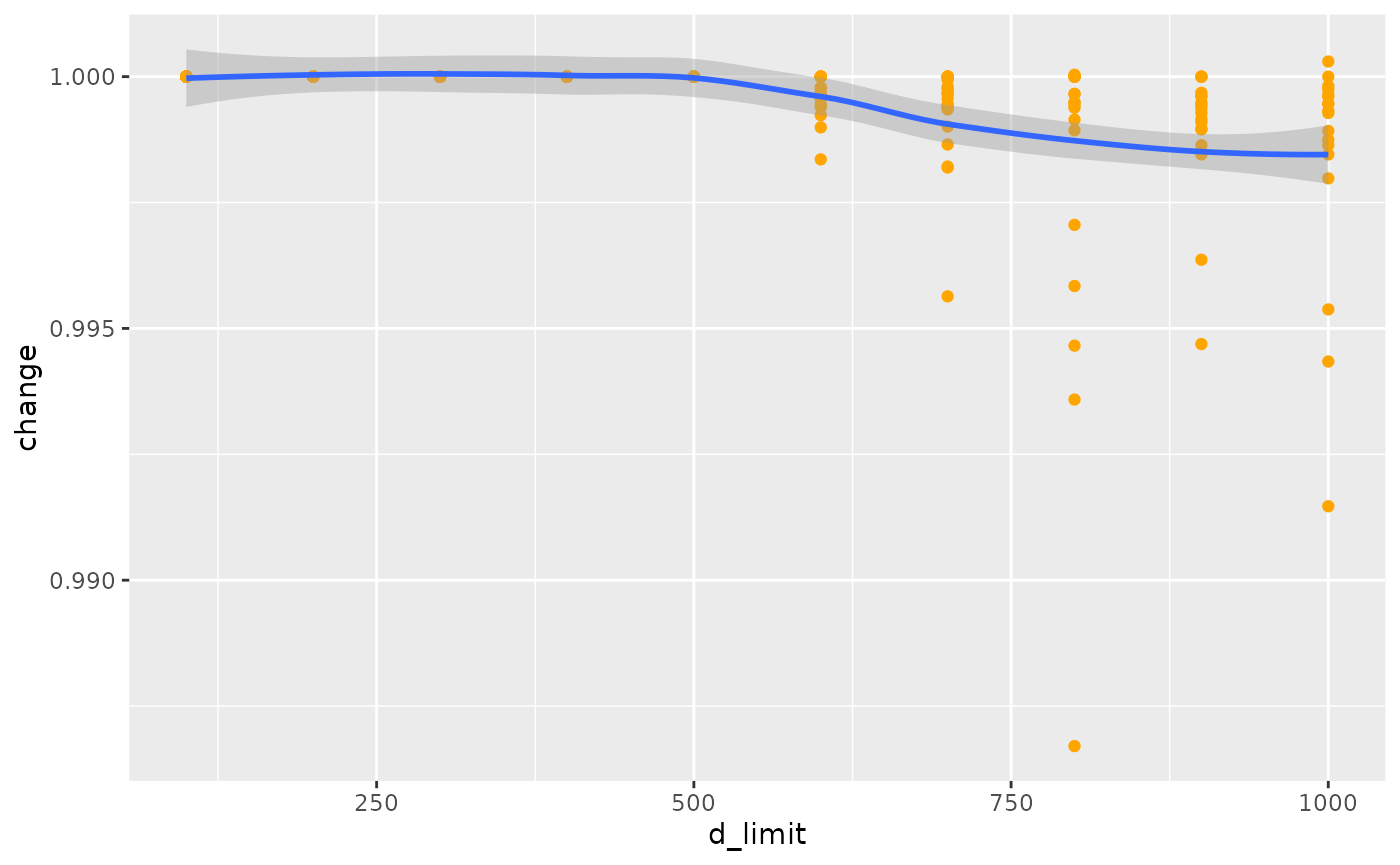
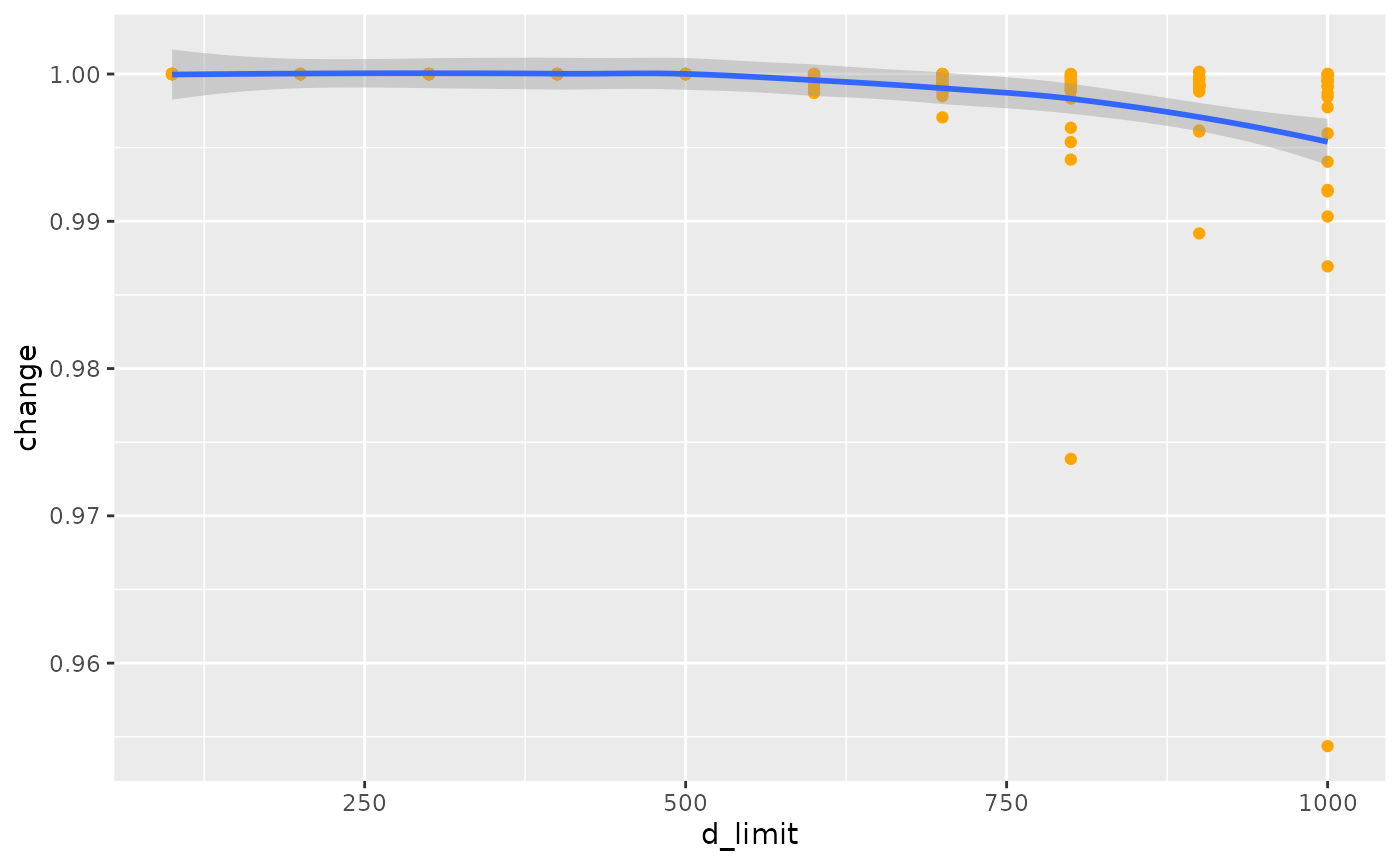
Deploying to gh-pages from @ ATFutures/gtfs-router@e3e9c0e0ea4a50630c8457e9ec67bfee1ce0405a 🚀

diff --git a/docs/index.html b/docs/index.html
@@ -35,7 +35,7 @@
       </button>
       <span class="navbar-brand">
         <a class="navbar-link" href="index.html">gtfsrouter</a>
-        <span class="version label label-default" data-toggle="tooltip" data-placement="bottom" title="">0.0.5.124</span>
+        <span class="version label label-default" data-toggle="tooltip" data-placement="bottom" title="">0.0.5.127</span>
       </span>
     </div>
 
@@ -331,6 +331,9 @@
 <a href="https://github.com/stmarcin" class="external-link"> <img src="https://avatars.githubusercontent.com/u/11378350?v=4" width="100px;" alt=""></a><br><a href="https://github.com/ATFutures/gtfs-router/commits?author=stmarcin" class="external-link">stmarcin</a>
 </td>
 <td align="center">
+<a href="https://github.com/dhersz" class="external-link"> <img src="https://avatars.githubusercontent.com/u/1557047?v=4" width="100px;" alt=""></a><br><a href="https://github.com/ATFutures/gtfs-router/commits?author=dhersz" class="external-link">dhersz</a>
+</td>
+<td align="center">
 <a href="https://github.com/polettif" class="external-link"> <img src="https://avatars.githubusercontent.com/u/17431069?v=4" width="100px;" alt=""></a><br><a href="https://github.com/ATFutures/gtfs-router/commits?author=polettif" class="external-link">polettif</a>
 </td>
 </tr></table>
@@ -344,7 +347,7 @@
 <a href="https://github.com/sridharraman" class="external-link"> <img src="https://avatars.githubusercontent.com/u/570692?v=4" width="100px;" alt=""></a><br><a href="https://github.com/ATFutures/gtfs-router/issues?q=is%3Aissue+author%3Asridharraman" class="external-link">sridharraman</a>
 </td>
 <td align="center">
-<a href="https://github.com/orlandoandradeb" class="external-link"> <img src="https://avatars.githubusercontent.com/u/48104481?u=66d48bb0e7efb664a94eace3472aa6a06960a7f4&amp;v=4" width="100px;" alt=""></a><br><a href="https://github.com/ATFutures/gtfs-router/issues?q=is%3Aissue+author%3Aorlandoandradeb" class="external-link">orlandoandradeb</a>
+<a href="https://github.com/orlandombaa" class="external-link"> <img src="https://avatars.githubusercontent.com/u/48104481?u=66d48bb0e7efb664a94eace3472aa6a06960a7f4&amp;v=4" width="100px;" alt=""></a><br><a href="https://github.com/ATFutures/gtfs-router/issues?q=is%3Aissue+author%3Aorlandombaa" class="external-link">orlandombaa</a>
 </td>
 <td align="center">
 <a href="https://github.com/Maxime2506" class="external-link"> <img src="https://avatars.githubusercontent.com/u/54989587?u=6d2c848ee0c7d8a2841d47791c30eec1cab35470&amp;v=4" width="100px;" alt=""></a><br><a href="https://github.com/ATFutures/gtfs-router/issues?q=is%3Aissue+author%3AMaxime2506" class="external-link">Maxime2506</a>
@@ -356,19 +359,13 @@
 <a href="https://github.com/federicotallis" class="external-link"> <img src="https://avatars.githubusercontent.com/u/25511806?u=f074beb69d1984dad98483c5b43a4d42402542dc&amp;v=4" width="100px;" alt=""></a><br><a href="https://github.com/ATFutures/gtfs-router/issues?q=is%3Aissue+author%3Afedericotallis" class="external-link">federicotallis</a>
 </td>
 <td align="center">
-<a href="https://github.com/rafapereirabr" class="external-link"> <img src="https://avatars.githubusercontent.com/u/7448421?u=9a760f26e72cd66150784babc5da6862e7775542&amp;v=4" width="100px;" alt=""></a><br><a href="https://github.com/ATFutures/gtfs-router/issues?q=is%3Aissue+author%3Arafapereirabr" class="external-link">rafapereirabr</a>
+<a href="https://github.com/rafapereirabr" class="external-link"> <img src="https://avatars.githubusercontent.com/u/7448421?u=01aed495e612154e54be4c51221e706cdff7779d&amp;v=4" width="100px;" alt=""></a><br><a href="https://github.com/ATFutures/gtfs-router/issues?q=is%3Aissue+author%3Arafapereirabr" class="external-link">rafapereirabr</a>
 </td>
-<td align="center">
-<a href="https://github.com/loanho23" class="external-link"> <img src="https://avatars.githubusercontent.com/u/48426365?u=36727e1ed27b3b6206fb922c47544ef249fad83d&amp;v=4" width="100px;" alt=""></a><br><a href="https://github.com/ATFutures/gtfs-router/issues?q=is%3Aissue+author%3Aloanho23" class="external-link">loanho23</a>
-</td>
-</tr>
-<tr>
 <td align="center">
 <a href="https://github.com/dcooley" class="external-link"> <img src="https://avatars.githubusercontent.com/u/8093396?u=2c8d9162f246d90d433034d212b29a19e0f245c1&amp;v=4" width="100px;" alt=""></a><br><a href="https://github.com/ATFutures/gtfs-router/issues?q=is%3Aissue+author%3Adcooley" class="external-link">dcooley</a>
 </td>
-<td align="center">
-<a href="https://github.com/dhersz" class="external-link"> <img src="https://avatars.githubusercontent.com/u/1557047?v=4" width="100px;" alt=""></a><br><a href="https://github.com/ATFutures/gtfs-router/issues?q=is%3Aissue+author%3Adhersz" class="external-link">dhersz</a>
-</td>
+</tr>
+<tr>
 <td align="center">
 <a href="https://github.com/bernd886" class="external-link"> <img src="https://avatars.githubusercontent.com/u/56547410?v=4" width="100px;" alt=""></a><br><a href="https://github.com/ATFutures/gtfs-router/issues?q=is%3Aissue+author%3Abernd886" class="external-link">bernd886</a>
 </td>
@@ -383,6 +380,9 @@
 </td>
 <td align="center">
 <a href="https://github.com/cseveren" class="external-link"> <img src="https://avatars.githubusercontent.com/u/30906872?v=4" width="100px;" alt=""></a><br><a href="https://github.com/ATFutures/gtfs-router/issues?q=is%3Aissue+author%3Acseveren" class="external-link">cseveren</a>
+</td>
+<td align="center">
+<a href="https://github.com/jh0ker" class="external-link"> <img src="https://avatars.githubusercontent.com/u/3945220?u=dcb262dbf7fe448a8b24b673bcb995e3311f08d4&amp;v=4" width="100px;" alt=""></a><br><a href="https://github.com/ATFutures/gtfs-router/issues?q=is%3Aissue+author%3Ajh0ker" class="external-link">jh0ker</a>
 </td>
 </tr>
 </table>
@@ -401,7 +401,13 @@
 <a href="https://github.com/Robinlovelace" class="external-link"> <img src="https://avatars.githubusercontent.com/u/1825120?u=461318c239e721dc40668e4b0ce6cc47731328ac&amp;v=4" width="100px;" alt=""></a><br><a href="https://github.com/ATFutures/gtfs-router/issues?q=is%3Aissue+commenter%3ARobinlovelace" class="external-link">Robinlovelace</a>
 </td>
 <td align="center">
+<a href="https://github.com/loanho23" class="external-link"> <img src="https://avatars.githubusercontent.com/u/48426365?u=36727e1ed27b3b6206fb922c47544ef249fad83d&amp;v=4" width="100px;" alt=""></a><br><a href="https://github.com/ATFutures/gtfs-router/issues?q=is%3Aissue+commenter%3Aloanho23" class="external-link">loanho23</a>
+</td>
+<td align="center">
 <a href="https://github.com/abyrd" class="external-link"> <img src="https://avatars.githubusercontent.com/u/112871?v=4" width="100px;" alt=""></a><br><a href="https://github.com/ATFutures/gtfs-router/issues?q=is%3Aissue+commenter%3Aabyrd" class="external-link">abyrd</a>
+</td>
+<td align="center">
+<a href="https://github.com/hansmib" class="external-link"> <img src="https://avatars.githubusercontent.com/u/52329319?v=4" width="100px;" alt=""></a><br><a href="https://github.com/ATFutures/gtfs-router/issues?q=is%3Aissue+commenter%3Ahansmib" class="external-link">hansmib</a>
 </td>
 </tr></table>
 <!-- markdownlint-enable --><!-- prettier-ignore-end --><!-- ALL-CONTRIBUTORS-LIST:END -->

diff --git a/docs/articles/gtfsrouter.html b/docs/articles/gtfsrouter.html
@@ -33,7 +33,7 @@
       </button>
       <span class="navbar-brand">
         <a class="navbar-link" href="../index.html">gtfsrouter</a>
-        <span class="version label label-default" data-toggle="tooltip" data-placement="bottom" title="">0.0.5.124</span>
+        <span class="version label label-default" data-toggle="tooltip" data-placement="bottom" title="">0.0.5.127</span>
       </span>
     </div>
 
@@ -126,7 +126,7 @@ to a locally-stored <code>.zip</code> archive in the
 data can be exported and re-imported with:</p>
 <div class="sourceCode" id="cb1"><pre class="downlit sourceCode r">
 <code class="sourceCode R"><span><span class="fu"><a href="../reference/berlin_gtfs_to_zip.html">berlin_gtfs_to_zip</a></span><span class="op">(</span><span class="op">)</span></span></code></pre></div>
-<pre><code><span><span class="co">## [1] "/tmp/RtmpMxP2kF/vbb.zip"</span></span></code></pre>
+<pre><code><span><span class="co">## [1] "/tmp/RtmpZ3TKNw/vbb.zip"</span></span></code></pre>
 <div class="sourceCode" id="cb3"><pre class="downlit sourceCode r">
 <code class="sourceCode R"><span><span class="va">f</span> <span class="op">&lt;-</span> <span class="fu"><a href="https://rdrr.io/r/base/file.path.html" class="external-link">file.path</a></span> <span class="op">(</span><span class="fu"><a href="https://rdrr.io/r/base/tempfile.html" class="external-link">tempdir</a></span> <span class="op">(</span><span class="op">)</span>, <span class="st">"vbb.zip"</span><span class="op">)</span></span>
 <span><span class="fu"><a href="https://rdrr.io/r/base/files.html" class="external-link">file.exists</a></span> <span class="op">(</span><span class="va">f</span><span class="op">)</span></span></code></pre></div>
@@ -347,7 +347,7 @@ data:</p>
 <span>                day <span class="op">=</span> <span class="st">"Sunday"</span><span class="op">)</span></span>
 <span>    <span class="op">)</span></span></code></pre></div>
 <pre><code><span><span class="co">##    user  system elapsed </span></span>
-<span><span class="co">##   0.049   0.004   0.053</span></span></code></pre>
+<span><span class="co">##   0.059   0.000   0.059</span></span></code></pre>
 <div class="sourceCode" id="cb14"><pre class="downlit sourceCode r">
 <code class="sourceCode R"><span><span class="fu"><a href="https://rdrr.io/r/base/names.html" class="external-link">names</a></span> <span class="op">(</span><span class="va">gtfs</span><span class="op">)</span></span></code></pre></div>
 <pre><code><span><span class="co">## [1] "calendar"   "routes"     "trips"      "stop_times" "stops"     </span></span>
@@ -365,7 +365,7 @@ data:</p>
 <span>                         to <span class="op">=</span> <span class="va">to</span>,</span>
 <span>                         start_time <span class="op">=</span> <span class="st">"12:00:00"</span><span class="op">)</span><span class="op">)</span></span></code></pre></div>
 <pre><code><span><span class="co">##    user  system elapsed </span></span>
-<span><span class="co">##   0.043   0.000   0.043</span></span></code></pre>
+<span><span class="co">##   0.046   0.000   0.047</span></span></code></pre>
 <p>Note that the <code>day</code> parameter is used to extract the
 timetable, after which it is no longer required in the actual call to
 <code><a href="../reference/gtfs_route.html">gtfs_route()</a></code>.</p>

diff --git a/docs/articles/traveltimes.html b/docs/articles/traveltimes.html
@@ -33,7 +33,7 @@
       </button>
       <span class="navbar-brand">
         <a class="navbar-link" href="../index.html">gtfsrouter</a>
-        <span class="version label label-default" data-toggle="tooltip" data-placement="bottom" title="">0.0.5.124</span>
+        <span class="version label label-default" data-toggle="tooltip" data-placement="bottom" title="">0.0.5.127</span>
       </span>
     </div>
 
@@ -101,7 +101,7 @@ function</a>, is necessary prior to calculating travel times.</p>
 <div class="sourceCode" id="cb1"><pre class="downlit sourceCode r">
 <code class="sourceCode R"><span><span class="kw"><a href="https://rdrr.io/r/base/library.html" class="external-link">library</a></span> <span class="op">(</span><span class="va"><a href="https://github.com/ATFutures/gtfs-router" class="external-link">gtfsrouter</a></span><span class="op">)</span></span>
 <span><span class="fu"><a href="../reference/berlin_gtfs_to_zip.html">berlin_gtfs_to_zip</a></span> <span class="op">(</span><span class="op">)</span></span></code></pre></div>
-<pre><code><span><span class="co">## [1] "/tmp/Rtmp41f9BN/vbb.zip"</span></span></code></pre>
+<pre><code><span><span class="co">## [1] "/tmp/RtmpVLkgvW/vbb.zip"</span></span></code></pre>
 <div class="sourceCode" id="cb3"><pre class="downlit sourceCode r">
 <code class="sourceCode R"><span><span class="va">f</span> <span class="op">&lt;-</span> <span class="fu"><a href="https://rdrr.io/r/base/file.path.html" class="external-link">file.path</a></span> <span class="op">(</span><span class="fu"><a href="https://rdrr.io/r/base/tempfile.html" class="external-link">tempdir</a></span> <span class="op">(</span><span class="op">)</span>, <span class="st">"vbb.zip"</span><span class="op">)</span></span>
 <span><span class="va">gtfs</span> <span class="op">&lt;-</span> <span class="fu"><a href="../reference/extract_gtfs.html">extract_gtfs</a></span> <span class="op">(</span><span class="va">f</span>, quiet <span class="op">=</span> <span class="cn">TRUE</span><span class="op">)</span></span>

diff --git a/docs/reference/gtfs_transfer_table.html b/docs/reference/gtfs_transfer_table.html
@@ -17,7 +17,7 @@
       </button>
       <span class="navbar-brand">
         <a class="navbar-link" href="../index.html">gtfsrouter</a>
-        <span class="version label label-default" data-toggle="tooltip" data-placement="bottom" title="">0.0.5.124</span>
+        <span class="version label label-default" data-toggle="tooltip" data-placement="bottom" title="">0.0.5.127</span>
       </span>
     </div>
 
@@ -112,7 +112,7 @@ throughout the underlying street network. If this is not provided as the
     <div id="ref-examples">
     <h2>Examples</h2>
     <div class="sourceCode"><pre class="sourceCode r"><code><span class="r-in"><span><span class="fu"><a href="berlin_gtfs_to_zip.html">berlin_gtfs_to_zip</a></span> <span class="op">(</span><span class="op">)</span></span></span>
-<span class="r-out co"><span class="r-pr">#&gt;</span> [1] "/tmp/Rtmpi7srUu/vbb.zip"</span>
+<span class="r-out co"><span class="r-pr">#&gt;</span> [1] "/tmp/RtmpMPDzqP/vbb.zip"</span>
 <span class="r-in"><span><span class="va">f</span> <span class="op">&lt;-</span> <span class="fu"><a href="https://rdrr.io/r/base/file.path.html" class="external-link">file.path</a></span> <span class="op">(</span><span class="fu"><a href="https://rdrr.io/r/base/tempfile.html" class="external-link">tempdir</a></span> <span class="op">(</span><span class="op">)</span>, <span class="st">"vbb.zip"</span><span class="op">)</span></span></span>
 <span class="r-in"><span><span class="va">g</span> <span class="op">&lt;-</span> <span class="fu"><a href="extract_gtfs.html">extract_gtfs</a></span> <span class="op">(</span><span class="va">f</span>, quiet <span class="op">=</span> <span class="cn">TRUE</span><span class="op">)</span></span></span>
 <span class="r-in"><span><span class="va">g</span> <span class="op">&lt;-</span> <span class="fu">gtfs_transfer_table</span> <span class="op">(</span><span class="va">g</span>, d_limit <span class="op">=</span> <span class="fl">200</span><span class="op">)</span></span></span>

diff --git a/docs/reference/gtfs_route.html b/docs/reference/gtfs_route.html
@@ -18,7 +18,7 @@ a specified time."><!-- mathjax --><script src="https://cdnjs.cloudflare.com/aja
       </button>
       <span class="navbar-brand">
         <a class="navbar-link" href="../index.html">gtfsrouter</a>
-        <span class="version label label-default" data-toggle="tooltip" data-placement="bottom" title="">0.0.5.124</span>
+        <span class="version label label-default" data-toggle="tooltip" data-placement="bottom" title="">0.0.5.127</span>
       </span>
     </div>
 
@@ -182,7 +182,7 @@ can be calculated by setting <code>earliest_arrival = FALSE</code>.</p>
     <div id="ref-examples">
     <h2>Examples</h2>
     <div class="sourceCode"><pre class="sourceCode r"><code><span class="r-in"><span><span class="fu"><a href="berlin_gtfs_to_zip.html">berlin_gtfs_to_zip</a></span> <span class="op">(</span><span class="op">)</span> <span class="co"># Write sample feed from Berlin, Germany to tempdir</span></span></span>
-<span class="r-out co"><span class="r-pr">#&gt;</span> [1] "/tmp/Rtmpi7srUu/vbb.zip"</span>
+<span class="r-out co"><span class="r-pr">#&gt;</span> [1] "/tmp/RtmpMPDzqP/vbb.zip"</span>
 <span class="r-in"><span><span class="va">f</span> <span class="op">&lt;-</span> <span class="fu"><a href="https://rdrr.io/r/base/file.path.html" class="external-link">file.path</a></span> <span class="op">(</span><span class="fu"><a href="https://rdrr.io/r/base/tempfile.html" class="external-link">tempdir</a></span> <span class="op">(</span><span class="op">)</span>, <span class="st">"vbb.zip"</span><span class="op">)</span> <span class="co"># name of feed</span></span></span>
 <span class="r-in"><span><span class="va">gtfs</span> <span class="op">&lt;-</span> <span class="fu"><a href="extract_gtfs.html">extract_gtfs</a></span> <span class="op">(</span><span class="va">f</span><span class="op">)</span></span></span>
 <span class="r-msg co"><span class="r-pr">#&gt;</span> ▶<span style="color: #00BB00;"> Unzipping GTFS archive</span></span>

diff --git a/docs/reference/berlin_gtfs.html b/docs/reference/berlin_gtfs.html
@@ -23,7 +23,7 @@ characters.'><!-- mathjax --><script src="https://cdnjs.cloudflare.com/ajax/libs
       </button>
       <span class="navbar-brand">
         <a class="navbar-link" href="../index.html">gtfsrouter</a>
-        <span class="version label label-default" data-toggle="tooltip" data-placement="bottom" title="">0.0.5.124</span>
+        <span class="version label label-default" data-toggle="tooltip" data-placement="bottom" title="">0.0.5.127</span>
       </span>
     </div>
 
@@ -96,7 +96,7 @@ for which no route is possible return <code>NULL</code>.</p>
     <div id="ref-examples">
     <h2>Examples</h2>
     <div class="sourceCode"><pre class="sourceCode r"><code><span class="r-in"><span><span class="fu"><a href="berlin_gtfs_to_zip.html">berlin_gtfs_to_zip</a></span> <span class="op">(</span><span class="op">)</span> <span class="co"># Write sample feed from Berlin, Germany to tempdir</span></span></span>
-<span class="r-out co"><span class="r-pr">#&gt;</span> [1] "/tmp/Rtmpi7srUu/vbb.zip"</span>
+<span class="r-out co"><span class="r-pr">#&gt;</span> [1] "/tmp/RtmpMPDzqP/vbb.zip"</span>
 <span class="r-in"><span><span class="va">f</span> <span class="op">&lt;-</span> <span class="fu"><a href="https://rdrr.io/r/base/file.path.html" class="external-link">file.path</a></span> <span class="op">(</span><span class="fu"><a href="https://rdrr.io/r/base/tempfile.html" class="external-link">tempdir</a></span> <span class="op">(</span><span class="op">)</span>, <span class="st">"vbb.zip"</span><span class="op">)</span> <span class="co"># name of feed</span></span></span>
 <span class="r-in"><span><span class="va">gtfs</span> <span class="op">&lt;-</span> <span class="fu"><a href="extract_gtfs.html">extract_gtfs</a></span> <span class="op">(</span><span class="va">f</span><span class="op">)</span></span></span>
 <span class="r-msg co"><span class="r-pr">#&gt;</span> ▶<span style="color: #00BB00;"> Unzipping GTFS archive</span></span>

diff --git a/docs/reference/gtfs_timetable.html b/docs/reference/gtfs_timetable.html
@@ -17,7 +17,7 @@
       </button>
       <span class="navbar-brand">
         <a class="navbar-link" href="../index.html">gtfsrouter</a>
-        <span class="version label label-default" data-toggle="tooltip" data-placement="bottom" title="">0.0.5.124</span>
+        <span class="version label label-default" data-toggle="tooltip" data-placement="bottom" title="">0.0.5.127</span>
       </span>
     </div>
 
@@ -126,7 +126,7 @@ that case will generally take longer.</p>
     <div id="ref-examples">
     <h2>Examples</h2>
     <div class="sourceCode"><pre class="sourceCode r"><code><span class="r-in"><span><span class="fu"><a href="berlin_gtfs_to_zip.html">berlin_gtfs_to_zip</a></span> <span class="op">(</span><span class="op">)</span> <span class="co"># Write sample feed from Berlin, Germany to tempdir</span></span></span>
-<span class="r-out co"><span class="r-pr">#&gt;</span> [1] "/tmp/Rtmpi7srUu/vbb.zip"</span>
+<span class="r-out co"><span class="r-pr">#&gt;</span> [1] "/tmp/RtmpMPDzqP/vbb.zip"</span>
 <span class="r-in"><span><span class="va">f</span> <span class="op">&lt;-</span> <span class="fu"><a href="https://rdrr.io/r/base/file.path.html" class="external-link">file.path</a></span> <span class="op">(</span><span class="fu"><a href="https://rdrr.io/r/base/tempfile.html" class="external-link">tempdir</a></span> <span class="op">(</span><span class="op">)</span>, <span class="st">"vbb.zip"</span><span class="op">)</span> <span class="co"># name of feed</span></span></span>
 <span class="r-in"><span><span class="va">gtfs</span> <span class="op">&lt;-</span> <span class="fu"><a href="extract_gtfs.html">extract_gtfs</a></span> <span class="op">(</span><span class="va">f</span><span class="op">)</span></span></span>
 <span class="r-msg co"><span class="r-pr">#&gt;</span> ▶<span style="color: #00BB00;"> Unzipping GTFS archive</span></span>

diff --git a/docs/reference/gtfs_traveltimes.html b/docs/reference/gtfs_traveltimes.html
@@ -18,7 +18,7 @@ other reachable station in a system."><!-- mathjax --><script src="https://cdnjs
       </button>
       <span class="navbar-brand">
         <a class="navbar-link" href="../index.html">gtfsrouter</a>
-        <span class="version label label-default" data-toggle="tooltip" data-placement="bottom" title="">0.0.5.124</span>
+        <span class="version label label-default" data-toggle="tooltip" data-placement="bottom" title="">0.0.5.127</span>
       </span>
     </div>
 
@@ -155,7 +155,7 @@ to reach all or most stations desired for a particular query, rather than set
     <div id="ref-examples">
     <h2>Examples</h2>
     <div class="sourceCode"><pre class="sourceCode r"><code><span class="r-in"><span><span class="fu"><a href="berlin_gtfs_to_zip.html">berlin_gtfs_to_zip</a></span> <span class="op">(</span><span class="op">)</span></span></span>
-<span class="r-out co"><span class="r-pr">#&gt;</span> [1] "/tmp/Rtmpi7srUu/vbb.zip"</span>
+<span class="r-out co"><span class="r-pr">#&gt;</span> [1] "/tmp/RtmpMPDzqP/vbb.zip"</span>
 <span class="r-in"><span><span class="va">f</span> <span class="op">&lt;-</span> <span class="fu"><a href="https://rdrr.io/r/base/file.path.html" class="external-link">file.path</a></span> <span class="op">(</span><span class="fu"><a href="https://rdrr.io/r/base/tempfile.html" class="external-link">tempdir</a></span> <span class="op">(</span><span class="op">)</span>, <span class="st">"vbb.zip"</span><span class="op">)</span></span></span>
 <span class="r-in"><span><span class="va">g</span> <span class="op">&lt;-</span> <span class="fu"><a href="extract_gtfs.html">extract_gtfs</a></span> <span class="op">(</span><span class="va">f</span><span class="op">)</span></span></span>
 <span class="r-msg co"><span class="r-pr">#&gt;</span> ▶<span style="color: #00BB00;"> Unzipping GTFS archive</span></span>

diff --git a/docs/reference/extract_gtfs.html b/docs/reference/extract_gtfs.html
@@ -17,7 +17,7 @@
       </button>
       <span class="navbar-brand">
         <a class="navbar-link" href="../index.html">gtfsrouter</a>
-        <span class="version label label-default" data-toggle="tooltip" data-placement="bottom" title="">0.0.5.124</span>
+        <span class="version label label-default" data-toggle="tooltip" data-placement="bottom" title="">0.0.5.127</span>
       </span>
     </div>
 
@@ -102,7 +102,7 @@ function to the two time columns of the "stop_times" table.</p>
     <div id="ref-examples">
     <h2>Examples</h2>
     <div class="sourceCode"><pre class="sourceCode r"><code><span class="r-in"><span><span class="fu"><a href="berlin_gtfs_to_zip.html">berlin_gtfs_to_zip</a></span> <span class="op">(</span><span class="op">)</span> <span class="co"># Write sample feed from Berlin, Germany to tempdir</span></span></span>
-<span class="r-out co"><span class="r-pr">#&gt;</span> [1] "/tmp/Rtmpi7srUu/vbb.zip"</span>
+<span class="r-out co"><span class="r-pr">#&gt;</span> [1] "/tmp/RtmpMPDzqP/vbb.zip"</span>
 <span class="r-in"><span><span class="va">f</span> <span class="op">&lt;-</span> <span class="fu"><a href="https://rdrr.io/r/base/file.path.html" class="external-link">file.path</a></span> <span class="op">(</span><span class="fu"><a href="https://rdrr.io/r/base/tempfile.html" class="external-link">tempdir</a></span> <span class="op">(</span><span class="op">)</span>, <span class="st">"vbb.zip"</span><span class="op">)</span> <span class="co"># name of feed</span></span></span>
 <span class="r-in"><span><span class="va">gtfs</span> <span class="op">&lt;-</span> <span class="fu">extract_gtfs</span> <span class="op">(</span><span class="va">f</span><span class="op">)</span></span></span>
 <span class="r-msg co"><span class="r-pr">#&gt;</span> ▶<span style="color: #00BB00;"> Unzipping GTFS archive</span></span>

diff --git a/docs/articles/transfers.html b/docs/articles/transfers.html
@@ -33,7 +33,7 @@
       </button>
       <span class="navbar-brand">
         <a class="navbar-link" href="../index.html">gtfsrouter</a>
-        <span class="version label label-default" data-toggle="tooltip" data-placement="bottom" title="">0.0.5.124</span>
+        <span class="version label label-default" data-toggle="tooltip" data-placement="bottom" title="">0.0.5.127</span>
       </span>
     </div>
 
@@ -590,9 +590,9 @@ range of distance limits.</p>
 <p><img src="transfers_files/figure-html/plot1-1.png" width="700"></p>
 <p>And these additional transfer possibilities can make a significant
 difference to estimated travel times. Note, however, that the travel
-times only changed for 944 stations, while the value of
+times only changed for 590 stations, while the value of
 <code>nsame</code> value recording numbers of stations for which travel
-times did not change was 4,733. Travel times may also increase as
+times did not change was 4,324. Travel times may also increase as
 additional transfers may be used to reduce numbers of connecting
 services required for a particular trip, and the algorithm generally
 searches for connections with minimal numbers of transfers.</p>
@@ -674,7 +674,7 @@ limits of maximal transfer distance, although the overall effect is very
 minimal. The object <code>d</code> also records the proportion of
 station pairs for which modifications to the transfers table actually
 changed travel times, which in this case amounts to a mean value of
-0.004, clearly revealing that very few trips actually change.</p>
+0.0078, clearly revealing that very few trips actually change.</p>
 <div class="section level3">
 <h3 id="a-more-realistic-example">A more realistic example<a class="anchor" aria-label="anchor" href="#a-more-realistic-example"></a>
 </h3>

diff --git a/docs/reference/summary.gtfs.html b/docs/reference/summary.gtfs.html
@@ -17,7 +17,7 @@
       </button>
       <span class="navbar-brand">
         <a class="navbar-link" href="../index.html">gtfsrouter</a>
-        <span class="version label label-default" data-toggle="tooltip" data-placement="bottom" title="">0.0.5.124</span>
+        <span class="version label label-default" data-toggle="tooltip" data-placement="bottom" title="">0.0.5.127</span>
       </span>
     </div>
 
@@ -81,7 +81,7 @@
     <div id="ref-examples">
     <h2>Examples</h2>
     <div class="sourceCode"><pre class="sourceCode r"><code><span class="r-in"><span><span class="fu"><a href="berlin_gtfs_to_zip.html">berlin_gtfs_to_zip</a></span> <span class="op">(</span><span class="op">)</span></span></span>
-<span class="r-out co"><span class="r-pr">#&gt;</span> [1] "/tmp/Rtmpi7srUu/vbb.zip"</span>
+<span class="r-out co"><span class="r-pr">#&gt;</span> [1] "/tmp/RtmpMPDzqP/vbb.zip"</span>
 <span class="r-in"><span><span class="va">f</span> <span class="op">&lt;-</span> <span class="fu"><a href="https://rdrr.io/r/base/file.path.html" class="external-link">file.path</a></span> <span class="op">(</span><span class="fu"><a href="https://rdrr.io/r/base/tempfile.html" class="external-link">tempdir</a></span> <span class="op">(</span><span class="op">)</span>, <span class="st">"vbb.zip"</span><span class="op">)</span></span></span>
 <span class="r-in"><span><span class="va">g</span> <span class="op">&lt;-</span> <span class="fu"><a href="extract_gtfs.html">extract_gtfs</a></span> <span class="op">(</span><span class="va">f</span><span class="op">)</span></span></span>
 <span class="r-msg co"><span class="r-pr">#&gt;</span> ▶<span style="color: #00BB00;"> Unzipping GTFS archive</span></span>

diff --git a/docs/authors.html b/docs/authors.html
@@ -17,7 +17,7 @@
       </button>
       <span class="navbar-brand">
         <a class="navbar-link" href="index.html">gtfsrouter</a>
-        <span class="version label label-default" data-toggle="tooltip" data-placement="bottom" title="">0.0.5.124</span>
+        <span class="version label label-default" data-toggle="tooltip" data-placement="bottom" title="">0.0.5.127</span>
       </span>
     </div>
 
@@ -74,13 +74,13 @@
 
     <p>Padgham M, Stepniak M (2022).
 <em>gtfsrouter: Routing with GTFS (General Transit Feed Specification) Data</em>.
-R package version 0.0.5.124, <a href="https://github.com/ATFutures/gtfs-router" class="external-link">https://github.com/ATFutures/gtfs-router</a>. 
+R package version 0.0.5.127, <a href="https://github.com/ATFutures/gtfs-router" class="external-link">https://github.com/ATFutures/gtfs-router</a>. 
 </p>
     <pre>@Manual{,
   title = {gtfsrouter: Routing with GTFS (General Transit Feed Specification) Data},
   author = {Mark Padgham and Marcin Stepniak},
   year = {2022},
-  note = {R package version 0.0.5.124},
+  note = {R package version 0.0.5.127},
   url = {https://github.com/ATFutures/gtfs-router},
 }</pre>
 
